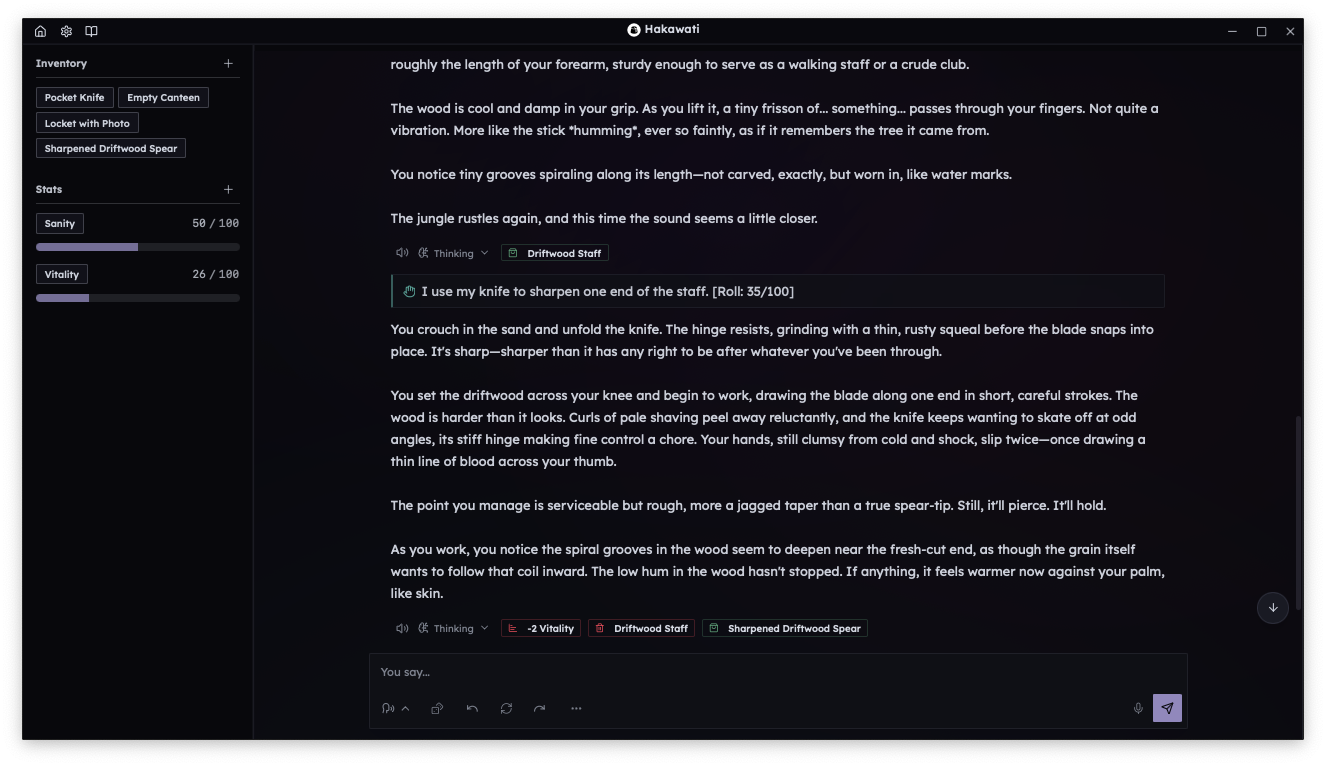
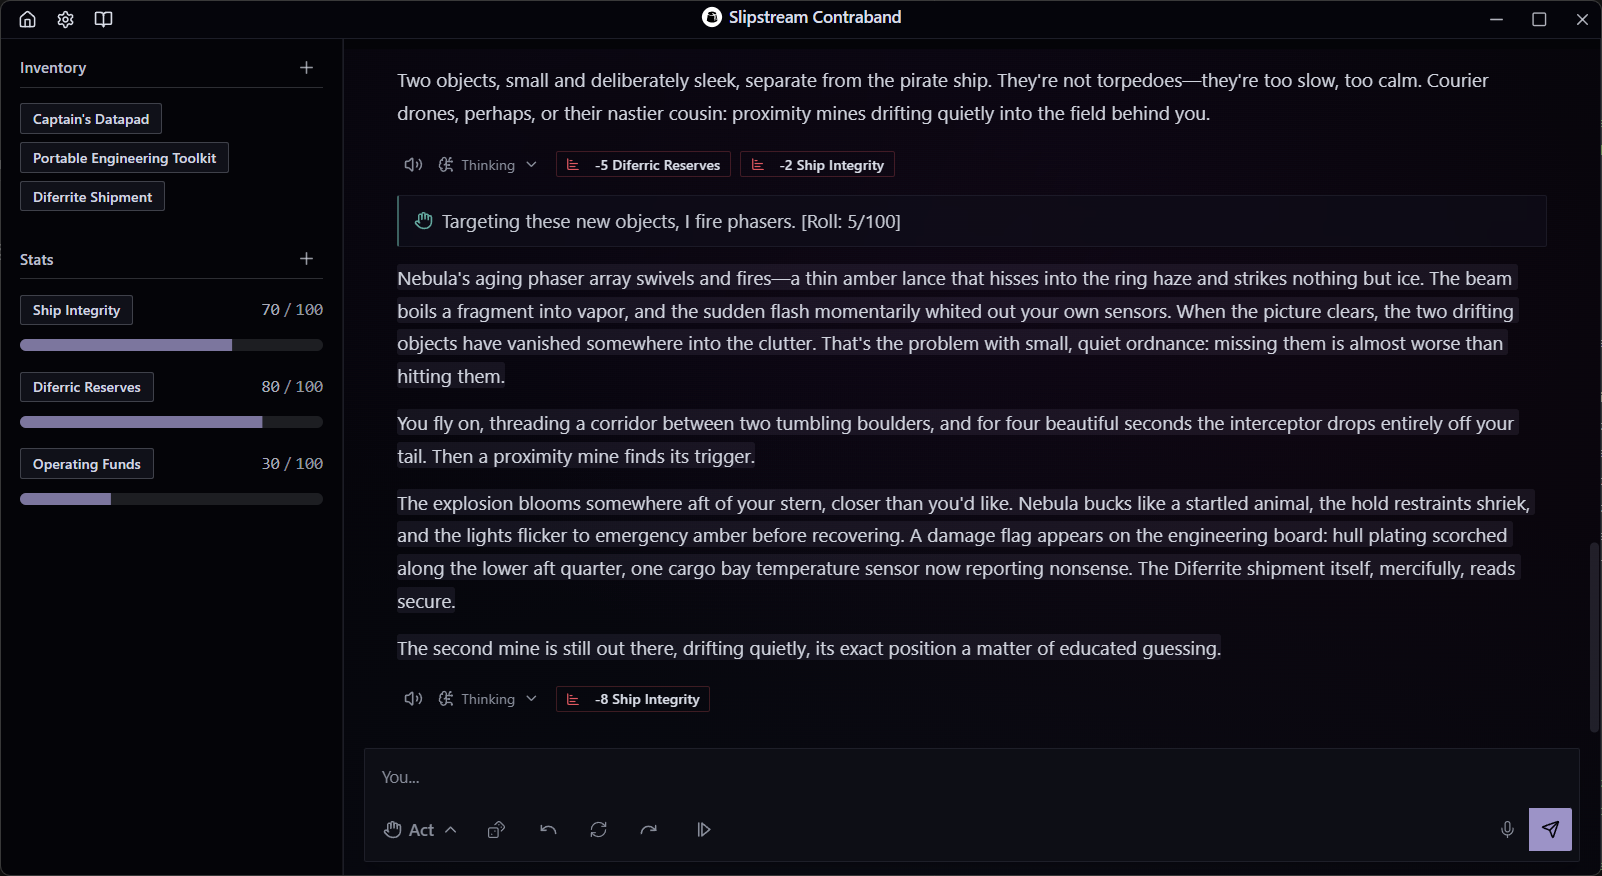
docs: update README and screenshots

diff --git a/README.md b/README.md
@@ -6,232 +6,211 @@
   <a href="https://github.com/rakanssh/hakawati/releases"><img src="https://img.shields.io/badge/platform-Windows%20%7C%20macOS%20%7C%20Linux-lightgrey" alt="Platform"></a>
 </p>
 
-Hakawati is a local-first, AI-powered text RPG. Bring your own
-OpenAI-compatible endpoint (cloud or local) and start an interactive adventure.
-An optional Hakawati Cloud account adds cross-device tale sync and access to the
-public scenario catalog; neither is required for local play.
+Hakawati is a free and open-source AI adventure client for Windows, macOS, and
+Linux. It works with your own AI provider or local model. Tales and scenarios are
+stored on your device; an optional account adds cloud sync and scenario publishing.
 
-> ℹ The client is in an early experimental stage. Expect bugs! (right click -> refresh app may resolve the occasional issue.)
+[Download](https://github.com/rakanssh/hakawati/releases/latest) ·
+[Website](https://hakawati.dev) · [Changelog](CHANGELOG.md) ·
+[Report a bug](https://github.com/rakanssh/hakawati/issues)
 
-[📥 Download Latest Release Here](https://github.com/rakanssh/hakawati/releases/latest)
+- [Game modes](#game-modes)
+- [Getting started](#getting-started)
+- [Tales and scenarios](#tales-and-scenarios)
+- [Accounts and cloud](#accounts-and-cloud)
+- [Development](#development)
+- [Support and license](#support-and-license)
 
-## Table of Contents
+## Game modes
 
-- [Game Modes](#game-modes)
-- [Features](#features)
-- [How to Play](#how-to-play)
-  - [Install](#install)
-  - [Setup](#setup)
-  - [Getting an Inference endpoint](#getting-an-inference-endpoint)
-  - [Create a Tale](#create-a-tale)
-  - [Create or Import a Scenario](#create-or-import-a-scenario)
-  - [Manage Tales](#manage-tales)
-  - [Export a Scenario](#export-a-scenario)
-  - [Edit a Scenario](#edit-a-scenario)
-- [Getting Started (For Development)](#getting-started-for-development)
-  - [Prerequisites](#prerequisites)
-  - [Installation](#installation)
-- [Running and Building the App](#running-and-building-the-app)
-- [Project Structure](#project-structure)
-- [Tech Stack](#tech-stack)
-- [Roadmap](#roadmap)
-- [License](#license)
+### Story Teller
 
-## Game Modes
+Freeform storytelling without inventory or stat tracking. The AI narrates the
+story in response to your actions, dialogue, and directions.
 
-### Game Master Mode
+![Story Teller mode showing a tale and the player input](./public/st.png)
 
-The game keeps track of items and statistics, allowing the AI to represent, remember, and change the current state of your character. Stats can be any numeric value with a minimum and maximum. (Experimental — best with more capable models. Requires tool calling to be supported by the model.)
-![Game Master Mode](./public/gm.png)
+### Game Master
 
-### Story Teller Mode
+The AI narrates and updates your character's inventory and stats. This mode is
+experimental and requires a model that supports tool calling. Results depend on
+how well the model handles those instructions.
 
-Standard AI text-based adventure. Works with any model.
-![Story Teller Mode](./public/st.png)
+![Game Master mode showing inventory and stats beside the story](./public/gm.png)
 
-## Features
+## Getting started
 
-- Two gamemodes: `Game Master` and `Story Teller`.
-- Different prompt types: `Do`, `Say`, `Story`, `Direct` or `Continue`.
-- Self-contained application — download (or build) and run.
-- Supports OpenAI-compatible endpoints (including OpenRouter metadata such as pricing/token limits). Works with local servers and tools like Ollama, LocalAI, and LLM Studio.
-- Scenario builder to create and save templates for new tales. Supports sharing scenarios via import/export to the clipboard.
-- Optional cross-device tale sync through Hakawati Cloud.
-- Public scenario discovery, publishing, reporting, and starting tales from
-  approved community scenarios. Public catalog packages are copied into local
-  tales and do not remain dependent on the server.
-- Persistence using an easily editable/queryable local SQLite database.
-- Flexible model configuration with adjustable sampling parameters.
+1. Install the [latest release](https://github.com/rakanssh/hakawati/releases/latest)
+   for your operating system.
+2. Open **Settings → AI Setup**. Select a provider, enter its API key if needed,
+   and choose a **Narrator** model. For a local server, select **Local** and use
+   **Rescan**, or enter its OpenAI-compatible base URL.
+3. Configure a **Utility** model for Quickstart, scenario generation, and story
+   card generation. It can use the same provider and model as the narrator.
+4. Use **Quickstart** on Home to generate a tale, or open a scenario and choose
+   **Start Tale**.
 
-### Local-first and cloud boundaries
+Hakawati does not include a model or API credits. Requests go to the provider or
+local server you configure. Provider presets include OpenRouter and OpenAI;
+**Generic OpenAI** supports other compatible endpoints. Local tools such as
+LM Studio, Ollama, and LocalAI need their model server running before connecting.
 
-Hakawati's gameplay, local scenarios, tales, imports/exports, and bring-your-own
-inference settings live in the open-source client. Hakawati Cloud is an optional
-service for accounts, remote tale copies, and the public scenario catalog.
-Cloud failures must not block local authoring or play.
+During play, the input modes are **Act**, **Say**, **Story**, and **Direct**.
+**Continue** lets the narrator carry on without new input. You can edit passages,
+retry a response, and undo or redo turns. Tales save automatically and are
+available from the **Tales** library.
 
-Private cloud saves use server-side encryption at rest. Public catalog
-scenarios are intentionally public and pass through pre-publication moderation
-before they appear in discovery.
+Optional **Speech to Text** and **Text to Speech** models in AI Setup provide
+dictation and spoken narration. Interface language, themes, and reading settings
+are under **Appearance**.
 
-Before uploading a cover, the client fits it within 1,280 pixels on its longest
-side and encodes it as WebP at 82% quality, without upscaling. Suitable originals
-are kept when encoding would make them larger. Local files and animated covers
-are preserved; optimized results and existing uploads are reused where possible.
+## Tales and scenarios
 
-## How to Play
+A tale is an ongoing adventure. A scenario is a reusable starting point for new
+tales, including its opening, world details, and initial character state.
 
-### Install
+The **Scenarios** library has **Create**, **Generate**, and **Import** actions.
+Import reads a scenario's JSON from the clipboard; **Export JSON** in a scenario's
+menu copies it back to the clipboard for sharing.
 
-Download the latest release for your operating system from the [Releases page](https://github.com/rakanssh/hakawati/releases/latest).
+### Editing a scenario
 
-### Setup
+The editor keeps the scenario's name, description, cover, and story content in
+one draft.
 
-On first launch, follow the home screen prompt to navigate to the settings tab, setup your API URL and key if it requires one. (OpenAI-compatible endpoints are supported. click scan to detect local servers.)
+| Field                                    | Purpose                                                                                                             |
+| ---------------------------------------- | ------------------------------------------------------------------------------------------------------------------- |
+| Name, description, and cover             | How the scenario appears in your library and the public catalog. The description is not sent to the AI.             |
+| AI Instructions, Plot, and Author's Note | Instructions and context used by the narrator.                                                                      |
+| Opening Text                             | The first passage shown when a tale starts.                                                                         |
+| Game mode                                | Story Teller or Game Master.                                                                                        |
+| Stats and inventory                      | The starting character state for Game Master mode.                                                                  |
+| Story cards                              | Notes about characters, places, things, and concepts, with triggers or pinning to include them in the AI's context. |
 
-#### Getting an Inference endpoint
+**Save draft** keeps changes local. **Publish** or **Publish update** opens a
+preview of the name, description, and cover, then publishes the whole draft with
+your chosen tags. Later edits stay in the draft until you publish another update.
+Cover images are optimized automatically before upload.
 
-The client supports OpenAI-compatible endpoints. There are two main straightforward ways to get an OpenAI-compatible endpoint for the client:
+Each new tale gets its own copy of the scenario. Editing a scenario does not
+rewrite existing tales. During play, **Tale Settings** contains **Story**,
+**Story Cards**, and, in Game Master mode, **Character** settings.
 
-- **Cloud Providers:** Check each provider for their pricing, limits, and privacy policies.
-- **Local Servers:** Run open LLMs on your own hardware using tools that expose a local server.
+### Scenario questions
 
-**Example Cloud Providers:**
+Scenarios can ask for a name, background, or other choices before a tale starts:
 
-- OpenRouter: [https://openrouter.ai](https://openrouter.ai)
-  A good option if you want to use models from various providers without having to sign up for each one. Has multiple free providers. (Check their website for more details). Note that free providers often collect your prompts.
-- OpenAI: [https://platform.openai.com](https://platform.openai.com)
-  The official OpenAI API.
-- Many others...
+```text
+Your name is ${What is your name?}.
+Your ship is ${What is your ship's name? | options: The Skipper, Nebula}.
+```
 
-**Example Local tools:**
+Answers replace the placeholders in the new tale. Repeated questions reuse the
+same answer, and the original scenario stays unchanged. These are text
+placeholders, not executable scripts. See [Scenario questions](SCENARIO_QUESTIONS.md)
+for supported fields, fixed choices, and escaping.
 
-- LocalAI: [https://localai.io](https://localai.io)
-- LLM Studio: [https://lmstudio.ai](https://lmstudio.ai)
-- Ollama: [https://ollama.com](https://ollama.com)
-- Many others...
+## Accounts and cloud
 
-I've tested with these tools and they work, anything that exposes an OpenAI-compatible endpoint should work too. Reach out if you find one that doesn't.
-Check your chosen tool's documentation for how to enable the server.
+Local play and scenario editing need no Hakawati account. **Discover** also lets
+you browse public scenarios and start tales without signing in.
 
-### Create a Tale
+An account enables tale sync and scenario publishing. Sign-in and sync controls
+are under **Settings → Account & Sync**.
 
-You can get started right away by clicking `Quickstart` on the home page and following the on-screen instructions to create a new tale by defining your character, setting, and tone. This will give you a tale with data based on your choices, the resulting description and author note can be changed at any time from the settings tab while in the tale.
+- Existing tales can be selected individually for sync or kept local.
+- When sync is enabled, new tales sync by default. **Start Local** on a scenario
+  or **Keep this tale local only** in Quickstart keeps that tale on your device.
+- **Remove from cloud** keeps the local copy. Conflicting saves can be reviewed
+  before choosing which version to keep.
+- Published scenarios are public and moderated. A tale started from one is a
+  local copy; changes to the published scenario do not alter that tale.
 
-You can also create, share, and import scenarios that act as templates for new tales allowing further customization.
+A Hakawati account does not provide AI inference or replace your model provider.
+Hosted-service details are covered by the [Privacy Policy](https://hakawati.dev/privacy),
+[Terms of Service](https://hakawati.dev/terms), and
+[Community Guidelines](https://hakawati.dev/community-guidelines).
 
-### Create or Import a Scenario
-
-Click `Scenarios` to navigate to the scenario page. You can create a new scenario from scratch `Create Scenario` or import one from the clipboard `Import From Clipboard`.
-
-Scenario Fields:
-
-- **Name**: The name of the scenario. Used to identify it.
-- **Thumbnail**: A thumbnail image for the scenario. (Optional)
-- **Initial Description**: A description of the scenario passed to the LLM with every action. Can be customized per tale.
-- **Initial Author Notes**: A note directing how the AI should write the story. Can be customized per tale.
-- **Opening Text**: The initial text at the start of the tale.
-- **Initial Game Mode**: The game mode new tales will start in.(`Story Teller` or `Game Master`)
-- **Initial Stats**: A list of stats that the AI can use to track the state of the scenario.(Used only in `Game Master` mode.)
-- **Initial Inventory**: A list of items that the AI can use to track the state of the scenario.(Used only in `Game Master` mode.)
-- **Initial Story Cards**: A list of story cards that the AI can use to track the state of the scenario.
-
-These fields can be customized per tale from the settings tab after creating a new tale. The values in the scenario will be used as initial values for new tales created from it.
-
-### Create a Tale
-
-From the scenario page, click `New Tale` on a scenario card to create a new tale from it. The tale will be saved automatically on every action.
-
-### Manage Tales
-
-From the home page, click `Tales` to navigate to the tales page. You can continue or manage existing tales from here.
-
-### Export a Scenario
-
-Click the three dot menu on a scenario and click `Export JSON` to copy the scenario to the clipboard. The scenario can then be shared with others to be imported into their client.
-
-### Edit a Scenario
-
-Click the three dot menu on a scenario and click `Edit` to edit its values.
-
-## Getting Started
+## Development
 
 ### Prerequisites
 
-> ℹ This is section is only required for development or modifying the app. If you just want to play, download the latest release from the [Releases page](https://github.com/rakanssh/hakawati/releases/latest).
+- Node.js 22.12 or newer and npm.
+- The stable Rust toolchain and the platform dependencies in
+  [Tauri's prerequisites](https://v2.tauri.app/start/prerequisites/).
+- [`cargo-about`](https://github.com/EmbarkStudios/cargo-about) for bundled license
+  notices.
 
-- Node.js 20+ and npm
-- Rust toolchain and platform dependencies required by [Tauri](https://tauri.app/start/prerequisites/)
-- [`cargo-about`](https://github.com/EmbarkStudios/cargo-about) CLI (`cargo install cargo-about --locked`)
+### Run the desktop app
 
-### Preparing the Development Environment
-
-```bash
-# Install dependencies
-npm install
-# Install cargo-about
+```sh
+git clone https://github.com/rakanssh/hakawati.git
+cd hakawati
+npm ci
 cargo install cargo-about --locked
-# Generate license reports
 npm run licenses:generate
-# Run the development server
 npm run tauri dev
 ```
 
-## Running and Building the App
+For hosted services in a development or local build, add this to `.env.local`:
 
-- Refresh license reports: `npm run licenses:generate`
-- Build Desktop App: `npm run tauri build`
+```dotenv
+VITE_HAKAWATI_SYNC_SERVER_URL=https://api.hakawati.net
+```
 
-### Browser preview for UI development
+This is the default cloud-service URL, not an AI provider URL or a secret. Leave
+it unset for local-only development. Official release builds get it from the
+GitHub `production` environment.
 
-Run `npm run dev:browser` and open [http://127.0.0.1:1422](http://127.0.0.1:1422).
-This separate development mode requires no Rust runtime, database server, cloud
-account, or API key. The regular `npm run dev` command still serves the Tauri UI.
+### Build locally
 
-The preview uses [sql.js](https://sql.js.org/) to run the existing SQLite
-migrations in memory and seeds three scenarios and two playable tales. Scenario
-editing, creating tales, and play controls use the real repositories. The preview
-narrator returns a labelled, scripted response; it does not call an AI provider.
-Reloading resets all tale and scenario data and returns to the home screen.
-Appearance preferences persist in this browser origin; preview connection
-settings are reapplied at startup.
+```sh
+npm run tauri -- build --config src-tauri/tauri.test.conf.json -- --locked
+```
 
-Cloud sync/catalog, sign-in, audio, AI scenario generation, and native updates are
-outside this preview's scope. HTTP calls through the preview adapter stay local
-and return an explanatory error for unsupported services. Clipboard actions use
-the browser clipboard API and may require browser permission.
+This configuration disables updater-signing artifacts for local builds. The build
+generates the frontend and license notices, then writes the executable and installers under
+`src-tauri/target/release/` and `src-tauri/target/release/bundle/`.
 
-The preview uses a dedicated Vite config and port, with no access to desktop
-saves. Its dependency aliases are absent from normal development and release
-builds; building with the preview config is explicitly rejected. To reset sample
-content, reload the page. To test an empty library, delete the disposable sample
-tales/scenarios through the UI during the current session.
+Official tagged releases use the signing configuration in
+[the release workflow](.github/workflows/release.yml).
 
-## Tech Stack
+### Browser preview
 
-- React 19, Vite, shadcn/ui, and Tailwind for the front-end.
-- TanStack Router for navigation and layout composition.
-- Zustand for client-side state and persistence.
-- Tauri 2 with clipboard, opener, and SQL plugins for native capabilities.
+```sh
+npm run dev:browser
+```
 
-## Roadmap
+Open [http://127.0.0.1:1422](http://127.0.0.1:1422). This UI development preview
+uses disposable sample tales and scenarios in an in-memory SQLite database,
+with scripted narration. Reloading resets the sample data.
 
-Planned areas of exploration include:
+It needs no Rust runtime, account, or API key and cannot access desktop saves.
+Live AI calls, cloud features, audio, and native updates are unavailable in this
+preview. Normal desktop and release builds use the native integrations.
 
-- Scenario scripting (allow inserting variables/options in scenarios and prompting the user to fill or select them when starting a tale)
-- AI-generated/assisted story cards.
-- Mobile support.
-- Operational hardening for the optional cloud service and catalog.
+### Checks
 
-## License
+```sh
+npm run typecheck
+npm run lint
+npm run test:run
+npm run build
+cargo test --locked --manifest-path src-tauri/Cargo.toml
+```
 
-Hosted-service policies: [Terms of Service](https://hakawati.dev/terms),
-[Privacy Policy](https://hakawati.dev/privacy), and
-[Community Guidelines](https://hakawati.dev/community-guidelines).
+The client uses React 19, TypeScript, Vite, Tailwind CSS, shadcn/ui, TanStack
+Router, and Zustand. Tauri 2 provides the desktop runtime, with SQLite for local
+tales and scenarios.
 
-`© 2025 Rakan AlShammari`
+## Support and license
 
-This project is licensed under the GNU General Public License v3.0 or later - see the [LICENSE](LICENSE) file for details.
+Bug reports and feature requests go to
+[GitHub Issues](https://github.com/rakanssh/hakawati/issues). Account, privacy, and
+other support requests can be sent to [support@hakawati.net](mailto:support@hakawati.net).
 
-Third-party dependencies are used under their respective licenses. The generated reports ship with the desktop build inside the `LICENSES/` directory.
-Run `npm run licenses:generate` to refresh the license bundle before building (requires the [`cargo-about`](https://github.com/EmbarkStudios/cargo-about) CLI to be installed and available on your `PATH`).
+Hakawati is licensed under the [GNU GPL v3.0 or later](LICENSE).
+Third-party license notices ship with desktop builds in the `LICENSES/` directory.
+`npm run licenses:generate` refreshes those reports.
+
+© 2025–2026 Rakan AlShammari
